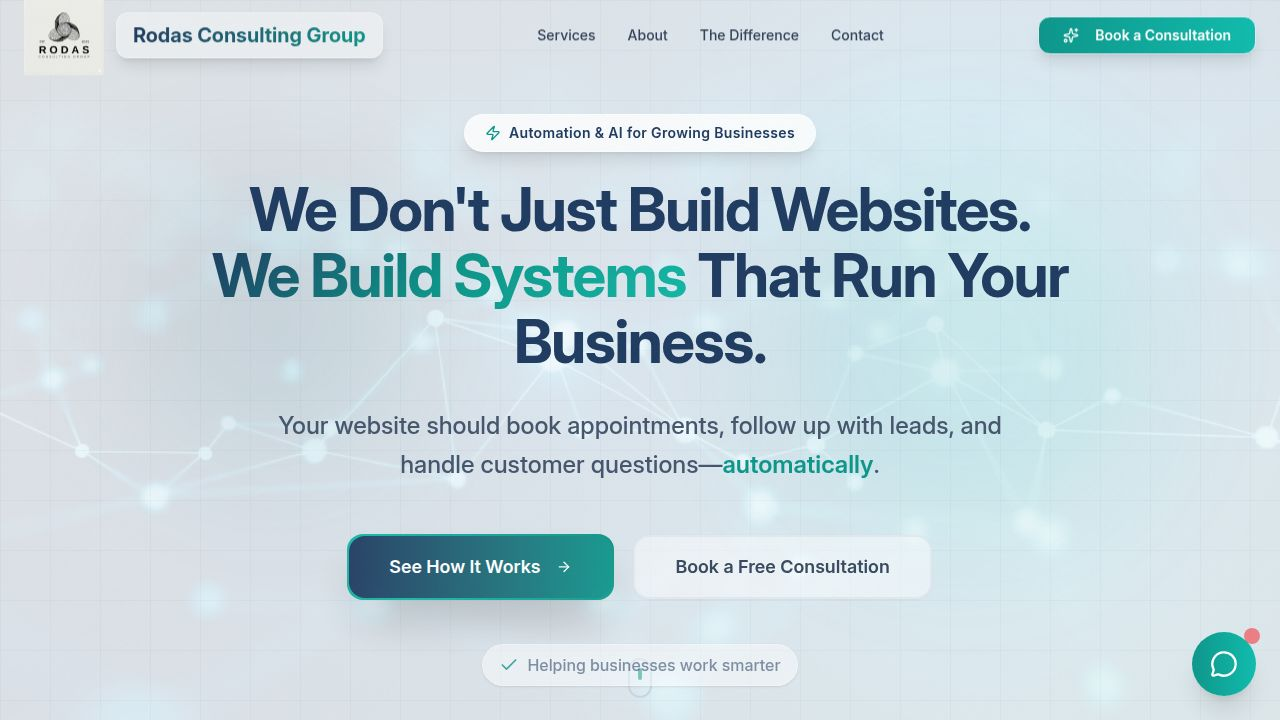
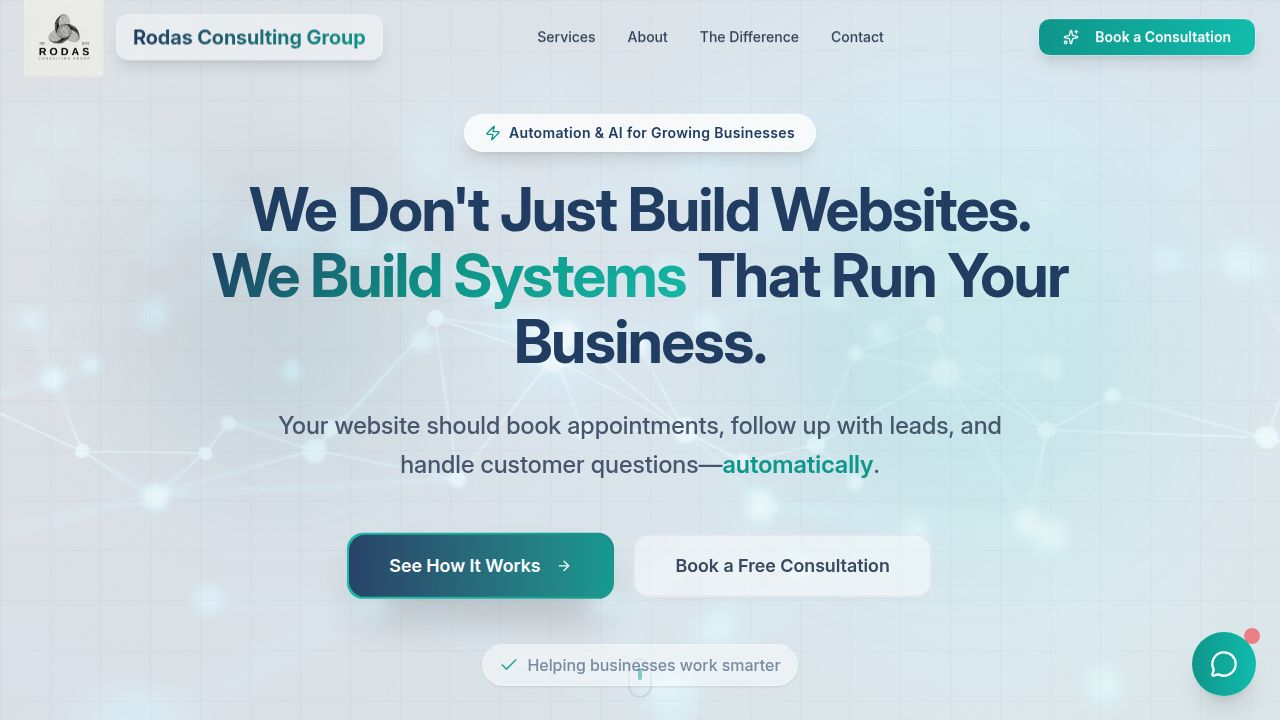
Update social media links to open in new tabs and point to correct URLs
Modify the LinkedIn link in the home page to open in a new tab and update its href attribute to the provided LinkedIn profile URL.

Replit-Commit-Author: Agent
Replit-Commit-Session-Id: ae07cc60-f601-4fe8-b6ec-dcaa87f20c3c
Replit-Commit-Checkpoint-Type: full_checkpoint
Replit-Commit-Event-Id: 7725762d-4616-4036-a25b-cdd431bbe023
Replit-Commit-Screenshot-Url: https://storage.googleapis.com/screenshot-production-us-central1/0fb86855-7ace-4084-a789-2a0750c4a423/ae07cc60-f601-4fe8-b6ec-dcaa87f20c3c/26lgYLH
Replit-Helium-Checkpoint-Created: true

diff --git a/client/src/pages/home.tsx b/client/src/pages/home.tsx
@@ -868,12 +868,14 @@ export default function Home() {
               </p>
               <div className="flex gap-4">
                 {[
-                  { icon: <Linkedin className="w-5 h-5" />, href: "#" },
+                  { icon: <Linkedin className="w-5 h-5" />, href: "https://www.linkedin.com/in/stevenmorales477/" },
                   { icon: <Mail className="w-5 h-5" />, href: "mailto:steven@rodascgroup.com" }
                 ].map((item, i) => (
                   <a 
                     key={i}
-                    href={item.href} 
+                    href={item.href}
+                    target="_blank"
+                    rel="noopener noreferrer"
                     className="w-11 h-11 rounded-xl bg-white/5 flex items-center justify-center hover:bg-secondary hover:text-white transition-all border border-white/10"
                   >
                     {item.icon}
